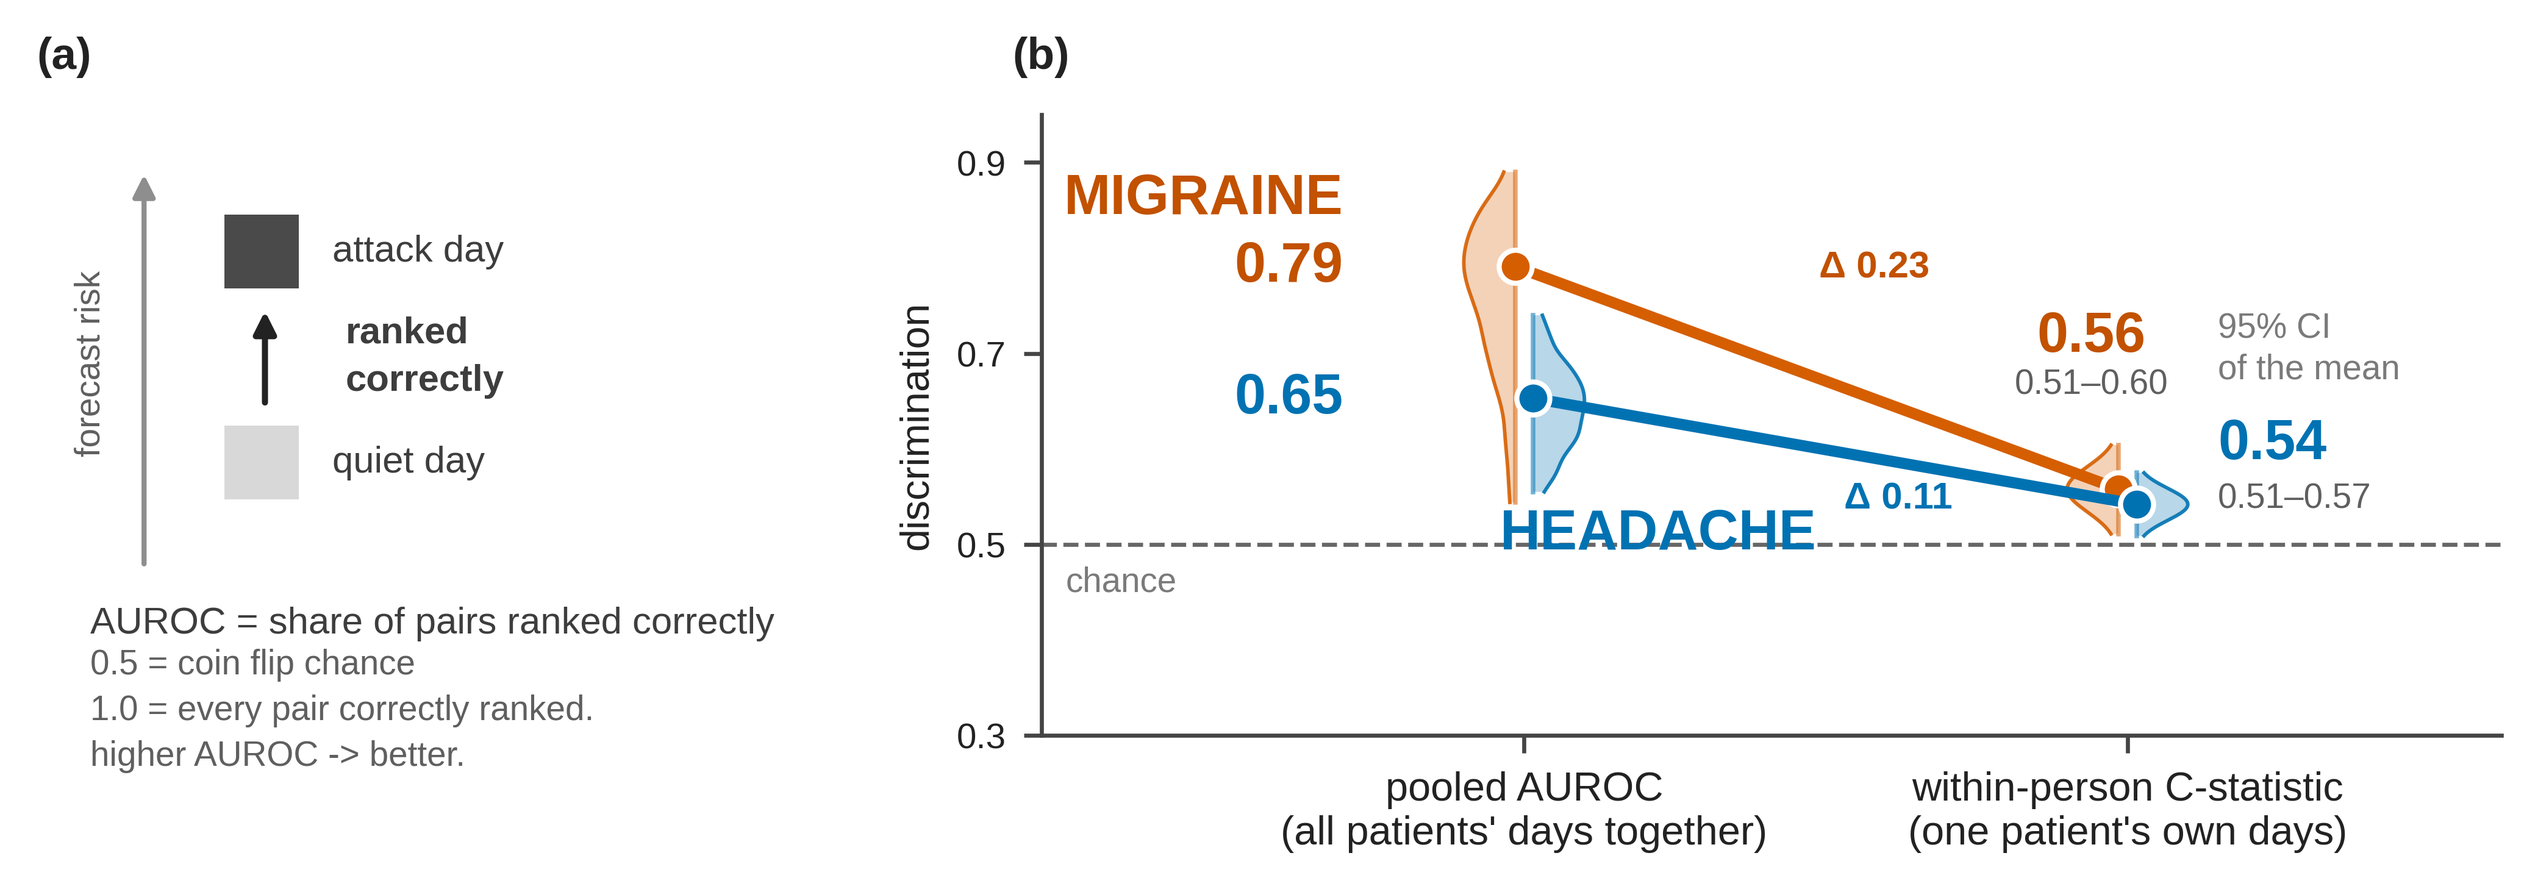
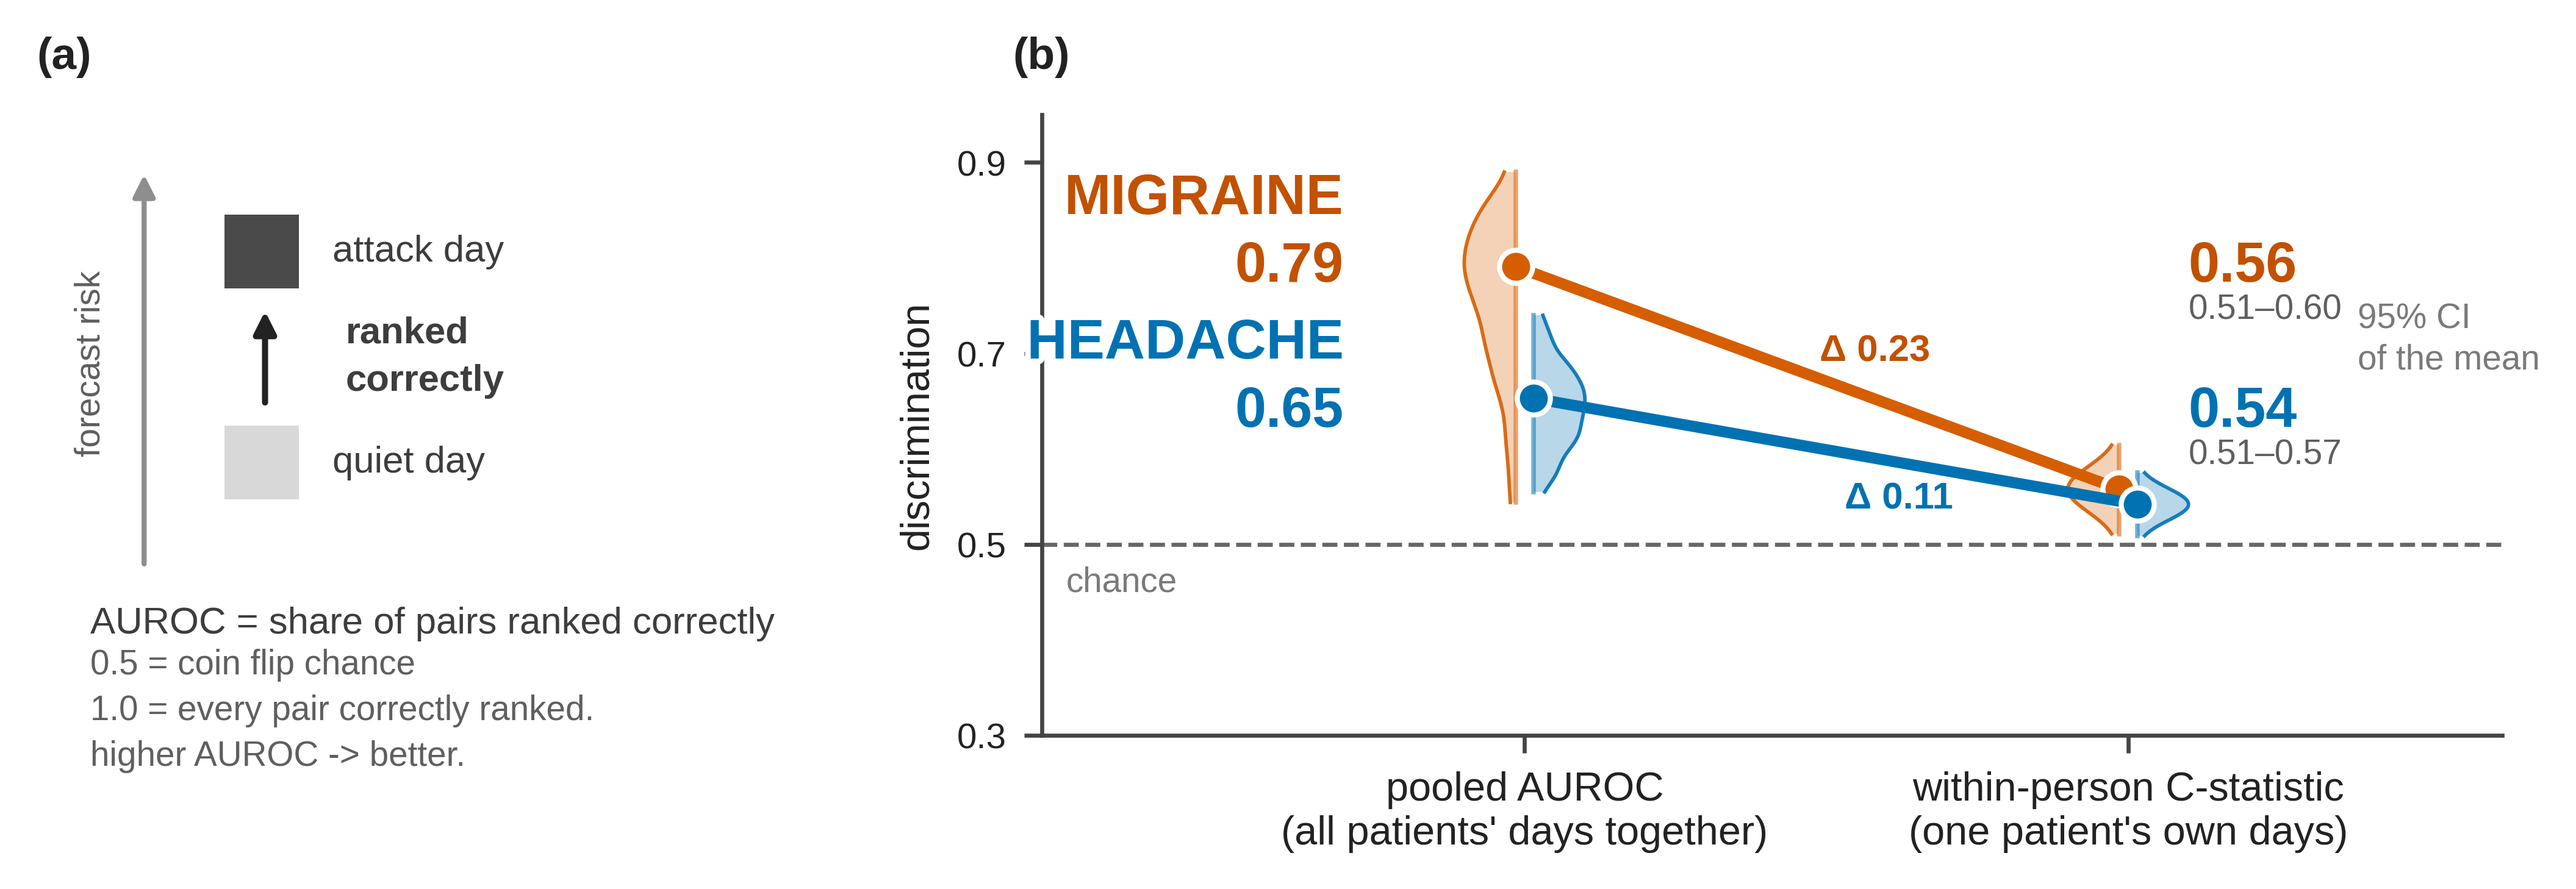
rows

diff --git a/docs/methodAndResults_diagramCreatorScripts/fig_m_evaluation_series.py b/docs/methodAndResults_diagramCreatorScripts/fig_m_evaluation_series.py
@@ -42,6 +42,7 @@ import _style as S
 import numpy as np
 import matplotlib.pyplot as plt
 from matplotlib.patches import Rectangle
+import matplotlib.patheffects as pe
 from sklearn.metrics import roc_curve, roc_auc_score
 
 HERE = Path(__file__).resolve().parent
@@ -216,7 +217,7 @@ def _skill_panel(ax, rows, cols):
         ax.plot([float(r["brier_skill"])], [yy], "o", ms=7, mfc="white", mec=col,
                 mew=2.0, zorder=5)
         _lab(ax, hi + 0.02, yy, tgt.upper(), PT_VALUE, MIG_TEXT if tgt == "migraine" else HEA_TEXT, weight="bold")
-    _lab(ax, 0.0, 1.50, "no improvement", PT_FINE, SECOND, ha="center")
+    _lab(ax, 0.03, 1.50, "no improvement", PT_FINE, SECOND, ha="left")
     _lab(ax, -0.30, -0.50, "\u2190 worse than own rate", PT_FINE, THIRD)
     _lab(ax, 0.70, -0.50, "better than own rate \u2192", PT_FINE, THIRD,
          ha="right")
@@ -320,26 +321,28 @@ def _slope_panel(ax):
     ax.text(-0.30, GA.MIGRAINE["pooled"], f"{GA.MIGRAINE['pooled']:.2f}",
             fontsize=PT_VALUE, fontweight="bold", color=MIG_TEXT, ha="right", va="center")
     # sits at its own pooled dot's x, so the word names the blue series directly
-    ax.text(-0.04, 0.538, "HEADACHE", fontsize=PT_VALUE, fontweight="bold",
-            color=HEA_TEXT, ha="left", va="top")
-    ax.text(-0.30, GA.HEADACHE["pooled"], f"{GA.HEADACHE['pooled']:.2f}",
+    ax.text(-0.30, 0.710, "HEADACHE", fontsize=PT_VALUE, fontweight="bold",
+            color=HEA_TEXT, ha="right", va="center",
+            path_effects=[pe.withStroke(linewidth=2.2, foreground="white")])
+    ax.text(-0.30, GA.HEADACHE["pooled"] - 0.014, f"{GA.HEADACHE['pooled']:.2f}",
             fontsize=PT_VALUE, fontweight="bold", color=HEA_TEXT, ha="right", va="center")
     # right gutter: the within-person value with its interval printed, because
     # "does it cross 0.5" is a 0.7 mm judgement at this scale and must not be one
-    # labels sit against their own dots, so no leader is needed
+    # each within-person value shares a row with the pooled value it is measured
+    # against, so the drop is read across a row rather than reconstructed
     mlo, mhi = GA.MIGRAINE["within_ci"]
-    ax.text(0.94, 0.690, f"{GA.MIGRAINE['within']:.2f}", fontsize=PT_VALUE,
-            fontweight="bold", color=MIG_TEXT, ha="center", va="bottom")
-    ax.text(0.94, 0.650, f"{mlo:.2f}\u2013{mhi:.2f}", fontsize=PT_FINE,
-            color=SECOND, ha="center", va="bottom")
+    ax.text(1.10, GA.MIGRAINE["pooled"], f"{GA.MIGRAINE['within']:.2f}",
+            fontsize=PT_VALUE, fontweight="bold", color=MIG_TEXT, ha="left", va="center")
+    ax.text(1.10, GA.MIGRAINE["pooled"] - 0.045, f"{mlo:.2f}\u2013{mhi:.2f}",
+            fontsize=PT_FINE, color=SECOND, ha="left", va="center")
     hlo, hhi = GA.HEADACHE["within_ci"]
-    ax.text(1.15, 0.605, f"{GA.HEADACHE['within']:.2f}", fontsize=PT_VALUE,
-            fontweight="bold", color=HEA_TEXT, ha="left", va="center")
-    ax.text(1.15, 0.548, f"{hlo:.2f}\u2013{hhi:.2f}", fontsize=PT_FINE,
-            color=SECOND, ha="left", va="center")
-    ax.text(1.15, 0.705, "95% CI\nof the mean", fontsize=PT_FINE, color=THIRD,
+    ax.text(1.10, GA.HEADACHE["pooled"] - 0.014, f"{GA.HEADACHE['within']:.2f}",
+            fontsize=PT_VALUE, fontweight="bold", color=HEA_TEXT, ha="left", va="center")
+    ax.text(1.10, GA.HEADACHE["pooled"] - 0.059, f"{hlo:.2f}\u2013{hhi:.2f}",
+            fontsize=PT_FINE, color=SECOND, ha="left", va="center")
+    ax.text(1.38, 0.715, "95% CI\nof the mean", fontsize=PT_FINE, color=THIRD,
             ha="left", va="center", linespacing=1.3)
-    ax.text(0.58, 0.790, f"\u0394 {GA.MIGRAINE['pooled'] - GA.MIGRAINE['within']:.2f}",
+    ax.text(0.58, 0.702, f"\u0394 {GA.MIGRAINE['pooled'] - GA.MIGRAINE['within']:.2f}",
             fontsize=PT_BODY, fontweight="bold", color=MIG_TEXT, ha="center", va="center")
     ax.text(0.62, 0.548, f"\u0394 {GA.HEADACHE['pooled'] - GA.HEADACHE['within']:.2f}",
             fontsize=PT_BODY, fontweight="bold", color=HEA_TEXT, ha="center", va="center")
@@ -401,7 +404,9 @@ def _rank_panel(ax):
     ax.set_xlabel(f"one dot per patient, ranked\n"
                   f"(63 records; {n_hea} scorable for headache, {n_mig} for migraine)",
                   fontsize=PT_AXIS)
-    GA._chance_label(ax)
+    # GA's helper sets this across the rule; place it clear of the stroke instead
+    ax.text(-0.02, 0.487, "chance", fontsize=PT_FINE, color=THIRD,
+            ha="left", va="top")
     for sp in ("top", "right"):
         ax.spines[sp].set_visible(False)
 

diff --git a/docs/methodAndResults_diagramCreatorScripts/check_label_overlap.py b/docs/methodAndResults_diagramCreatorScripts/check_label_overlap.py
@@ -28,9 +28,14 @@ def _spy(fig, path):
             if t.get_text().strip():
                 e = bb(t, r)
                 if e: texts.append((t.get_text().replace("\n", " / ")[:38], e, ax))
-        for coll in list(ax.patches) + list(ax.lines):
+        for coll in ax.patches:
             e = bb(coll, r)
             if e: others.append((type(coll).__name__, e, ax, coll))
+        # Lines are NOT filtered by bbox: a horizontal or vertical rule has zero
+        # height or width, so a bbox filter silently drops exactly the rules most
+        # likely to strike through a label (axhline, axvline, CI spines).
+        for ln in ax.lines:
+            others.append(("Line2D", None, ax, ln))
     hits = []
     for i in range(len(texts)):
         for j in range(i + 1, len(texts)):
